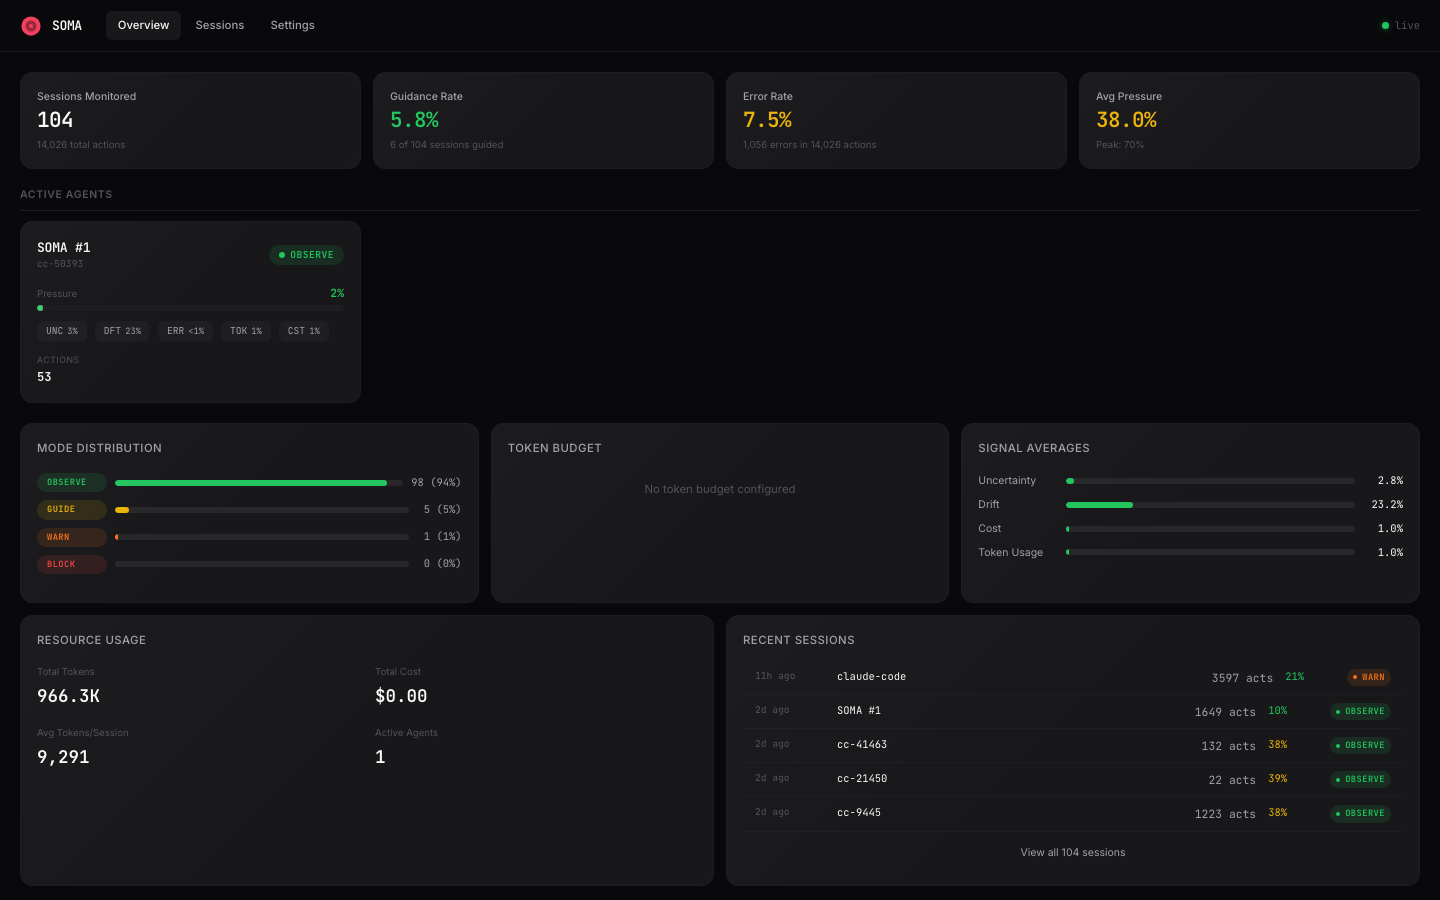
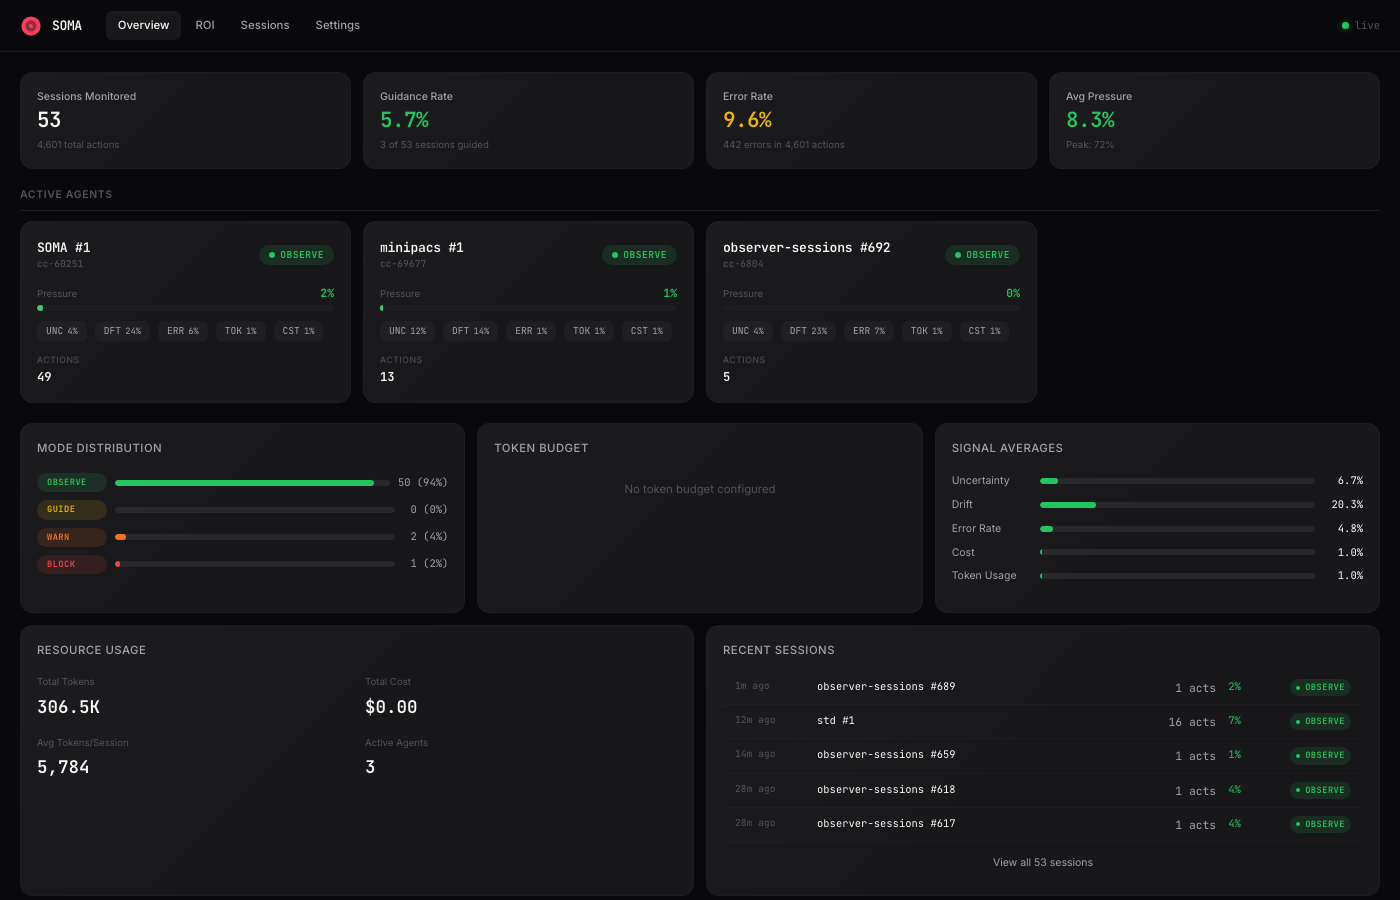
docs: comprehensive README rewrite + fresh dashboard screenshots
- Full pipeline explanation with vitals, pressure model, response modes
- "Why SOMA?" table with 6 concrete before/after scenarios
- All 9 patterns with detection AND prescription columns
- Healing transitions, panic detector, cross-session memory sections
- ROI dashboard section with live screenshot
- State files, configuration, architecture summary
- Fresh Playwright screenshots of all dashboard pages including new ROI

diff --git a/README.md b/README.md
@@ -1,11 +1,11 @@
 <p align="center">
-  <img src="docs/screenshots/overview.png" alt="SOMA Dashboard" width="700">
+  <img src="docs/screenshots/overview.png" alt="SOMA Dashboard — Overview" width="720">
 </p>
 
 <h1 align="center">SOMA</h1>
 
 <p align="center">
-  <strong>Behavioral monitoring and guidance for AI agents</strong>
+  <strong>Behavioral monitoring and real-time guidance for AI agents</strong>
 </p>
 
 <p align="center">
@@ -17,24 +17,28 @@
 
 <p align="center">
   SOMA observes agent actions in real-time, computes behavioral pressure<br>
-  from vital signals, and injects corrective guidance before problems escalate.<br>
-  <em>A nervous system for AI agents.</em>
+  from five vital signals, and injects corrective guidance before problems<br>
+  escalate. Think of it as a nervous system for AI agents.
 </p>
 
 ---
 
 ## Why SOMA?
 
-AI agents fail in predictable ways: they retry the same broken command, spiral into error cascades, burn tokens on dead-end approaches, and edit files they never read. Human operators catch these patterns — eventually. SOMA catches them in real-time and tells the agent what to do instead.
+AI agents fail in predictable ways. They retry the same broken command 10 times. They spiral into error cascades across tools. They burn thousands of tokens on dead-end approaches. They edit files they never read. Human operators catch these patterns — eventually, after the damage is done.
+
+SOMA catches them in real-time and tells the agent exactly what to do instead.
 
 **SOMA doesn't just monitor. It treats.**
 
-| Problem | What happens without SOMA | What SOMA does |
-|:--------|:--------------------------|:---------------|
-| Agent retries failing Bash 5x | Burns tokens, gets same error | Intercepts after 1st failure, suggests `Read` instead |
-| Error cascade across tools | 10+ wasted actions before human notices | Breaks the chain at action 3 with specific fix |
-| Monotool tunnel vision | Agent stuck in one tool forever | Detects low entropy, prescribes tool switch |
-| Cost spiraling with errors | $5 wasted before anyone checks | Detects spend + error correlation, warns immediately |
+| Problem | Without SOMA | With SOMA |
+|:--------|:-------------|:----------|
+| Agent retries failing Bash 5x | Burns tokens, gets same error every time | Intercepts after 1st failure, suggests `Read` the error output |
+| Error cascade across tools | 10+ wasted actions before human notices | Breaks the chain at action 3 with a specific fix |
+| Monotool tunnel vision | Agent stuck calling one tool forever | Detects low entropy, prescribes tool diversification |
+| Cost spiraling with errors | $5+ wasted before anyone checks | Detects spend + error correlation, warns immediately |
+| Editing without reading | Blind edits introduce bugs | Blocks and tells agent to read the file first |
+| Context window filling up | Agent runs out of context, loses track | Warns at 80%, suggests compaction strategy |
 
 ---
 
@@ -44,21 +48,23 @@ AI agents fail in predictable ways: they retry the same broken command, spiral i
 pip install soma-ai
 ```
 
-Python 3.11+ &mdash; no other dependencies required.
+Python 3.11+. No external service dependencies.
 
 ---
 
-## Quick Start
+## Two Integration Paths
 
-### Option A: Claude Code (zero-code)
+### Path 1: Claude Code Hooks (zero-code)
 
 ```bash
 soma install
 ```
 
-Done. SOMA hooks into every tool call automatically.
+Done. SOMA hooks into every tool call automatically. Guidance appears as part of tool responses — the agent sees it and adjusts behavior without human intervention.
 
-### Option B: Any LLM SDK
+**How it works:** PreToolUse hook writes to stderr (pre-action warnings). PostToolUse hook records the action, evaluates 9 guidance patterns, and writes corrections to stdout where Claude Code appends them to the tool response. Hooks never crash — all exceptions are caught and suppressed.
+
+### Path 2: SDK Wrapper (any LLM client)
 
 ```python
 import soma
@@ -67,7 +73,8 @@ import anthropic
 client = soma.wrap(anthropic.Anthropic())
 
 # Every API call is now monitored.
-# SOMA injects guidance directly into the message stream.
+# SOMA injects guidance directly into the message stream
+# as system messages when behavioral pressure rises.
 response = client.messages.create(
     model="claude-sonnet-4-20250514",
     max_tokens=1024,
@@ -75,95 +82,131 @@ response = client.messages.create(
 )
 ```
 
+Works with any client that follows the Anthropic SDK interface. `soma.wrap()` returns a transparent proxy — your code doesn't change. Raises `SomaBlocked` when pressure is critical, `SomaBudgetExhausted` when budget is spent.
+
 ---
 
-## How It Works
+## The Pipeline
 
 ```
 action  ──>  vitals  ──>  pressure  ──>  guidance  ──>  injection
-              │                            │               │
-        uncertainty              OBSERVE / GUIDE      stdout (hooks)
-        drift                    WARN / BLOCK         messages (SDK)
-        error_rate
-        token_usage
-        cost
+               │              │              │              │
+         5 signals      EMA baseline    9 patterns      stdout (hooks)
+         per action     + z-score       ranked by       messages (SDK)
+                        + sigmoid       priority
 ```
 
-Every action flows through the pipeline. Five vital signals are computed, aggregated into a 0&ndash;1 pressure scalar via EMA baselines + z-score sigmoid, then mapped to a response mode. When pressure is high enough, SOMA injects specific, actionable guidance into the agent's context.
+Every agent action flows through this pipeline:
+
+1. **Vitals** — five signals computed per action:
+   - **Uncertainty** — entropy of recent action distribution
+   - **Drift** — deviation from established behavioral baseline
+   - **Error rate** — ratio of failed actions
+   - **Token usage** — resource consumption rate
+   - **Cost** — monetary spend rate
+
+2. **Pressure** — each signal compared against its EMA baseline (with cold-start blending to avoid false positives in early sessions). Deviation converted to 0–1 via z-score through sigmoid. Aggregate = blended mean + max of individual pressures.
+
+3. **Response Mode** — pressure maps to escalating modes:
+
+   | Range | Mode | Behavior |
+   |:------|:-----|:---------|
+   | 0.00–0.25 | **OBSERVE** | Silent. Metrics only. |
+   | 0.25–0.50 | **GUIDE** | Suggest corrections. |
+   | 0.50–0.75 | **WARN** | Alert. Flag destructive operations. |
+   | 0.75–1.00 | **BLOCK** | Restrict destructive operations. |
+
+4. **Injection** — corrective guidance reaches the agent context. Hooks write to stdout (appended to tool response). SDK wrapper injects system messages.
 
 ---
 
 ## 9 Guidance Patterns
 
-Ranked by priority. Higher patterns override lower ones when multiple match.
+Ranked by priority. When multiple patterns match, the highest-priority one fires. Each pattern has an independent cooldown to prevent alert fatigue.
 
-| # | Pattern | Detects | Action |
-|:-:|:--------|:--------|:-------|
-| 1 | **cost_spiral** | Accelerating spend + high error rate | Warn about cost, suggest cheaper approach |
-| 2 | **budget** | Budget below 20% remaining | Budget status + conservation tips |
-| 3 | **bash_retry** | Bash followed by Bash after failure | "Read the error first" + healing transition |
-| 4 | **retry_storm** | 3+ same-tool consecutive failures | Break the loop, suggest alternative tool |
-| 5 | **error_cascade** | 3+ errors across different tools | Stop, diagnose root cause |
-| 6 | **blind_edit** | Edit/Write without prior Read | "Read before you edit" |
-| 7 | **entropy_drop** | Monotool usage (low Shannon entropy) | Diversify approach + panic escalation |
+| # | Pattern | What it detects | What it prescribes |
+|:-:|:--------|:----------------|:-------------------|
+| 1 | **cost_spiral** | Accelerating spend + high error rate | Cost warning + cheaper approach suggestion |
+| 2 | **budget** | Budget below 20% remaining | Budget status + conservation strategy |
+| 3 | **bash_retry** | Bash immediately after Bash failure | "Read the error output first" + healing transition |
+| 4 | **retry_storm** | 3+ consecutive same-tool failures | Break the loop + alternative tool suggestion |
+| 5 | **error_cascade** | 3+ consecutive errors across tools | Stop and diagnose root cause |
+| 6 | **blind_edit** | Edit/Write without prior Read of file | "Read before you edit" |
+| 7 | **entropy_drop** | Monotool usage (low Shannon entropy) | Diversify tools + panic escalation if velocity high |
 | 8 | **context** | Context window >80% full | Compaction warning |
-| 9 | **drift** | Behavioral deviation from baseline | Pattern drift alert |
+| 9 | **drift** | Behavioral drift from initial patterns | Pattern drift alert |
 
 ### Healing Transitions
 
-Data-backed prescriptions from 17K+ production actions:
+When a pattern fires, SOMA doesn't just say "stop doing that." It tells the agent specifically what to do next, backed by data from 17K+ production actions:
 
 ```
-Bash failed  ──>  Read next     (reduces pressure 7%)
-Edit failed  ──>  Read first    (reduces pressure 5%)
-Write stuck  ──>  Grep/Glob     (reduces pressure 5%)
+Bash failed   →  Read next      (reduces pressure by 7%)
+Edit failed   →  Read first     (reduces pressure by 5%)
+Write stuck   →  Grep/Glob      (reduces pressure by 5%)
 ```
 
-These aren't opinions &mdash; they're measured effect sizes from real agent sessions.
+These are measured effect sizes, not opinions.
+
+### Panic Detector
+
+The entropy_drop pattern includes a panic escalation mechanism. When SOMA detects both low tool entropy (monotool usage) AND high action velocity (rapid-fire actions), it escalates to critical severity. This catches agents that are stuck in a loop and moving too fast to self-correct.
 
 ### Cross-Session Memory
 
-Errors are stored with trigram similarity matching. If the agent hit a similar error last session (even with different file paths), SOMA surfaces the fix that worked before.
+Errors are stored in a `LessonStore` with trigram similarity matching. If the agent hit a similar error in a past session — even with different file paths or slightly different error messages — SOMA surfaces the fix that worked before.
 
 ---
 
 ## ROI Dashboard
 
+<p align="center">
+  <img src="docs/screenshots/roi.png" alt="SOMA ROI Dashboard" width="720">
+</p>
+
 ```bash
 soma dashboard
 ```
 
-Opens a browser dashboard answering one question: **"Is SOMA worth it?"**
+The ROI page answers one question: **"Is SOMA worth it?"**
 
-<p align="center">
-  <img src="docs/screenshots/overview.png" alt="SOMA Dashboard" width="600">
-</p>
+- **Health Score** — 0-100 composite from live vitals (error rate, uncertainty, drift)
+- **Tokens Saved** — estimated from error cascades broken early (each intervention prevents ~3 wasted actions)
+- **Cascades Broken** — count of retry_storm, error_cascade, and bash_retry chains stopped
+- **Guidance Precision** — percentage of interventions the agent actually followed
+- **Pattern Performance** — horizontal bar chart showing which patterns fire most and their follow-through rates
 
-- **Health Score** &mdash; 0-100 from live vitals
-- **Tokens Saved** &mdash; estimated from broken error cascades
-- **Cascades Broken** &mdash; error chains stopped early
-- **Guidance Precision** &mdash; % of interventions the agent followed
-- **Pattern Performance** &mdash; which patterns fire, which get followed
+The dashboard also includes an [Overview page](docs/screenshots/overview.png) with live agent cards, pressure gauges, mode distribution, signal averages, resource usage, and recent sessions.
+
+Data comes from `analytics.db` (source-tagged SQLite with every action recorded), circuit files (per-agent followthrough and cooldown state), and `engine_state.json` (current vitals). Auto-refreshes every 5 seconds.
 
 ---
 
 ## CLI
 
 ```bash
-soma status          # Current pressure, vitals, budget
+soma status          # Current pressure, vitals, and budget
 soma install         # Set up Claude Code hooks
 soma config show     # View active configuration
-soma doctor          # Diagnose issues
+soma doctor          # Diagnose configuration and hook health
 soma analytics       # Query session analytics
 soma replay          # Replay a recorded session
 soma dashboard       # Launch web dashboard
 ```
 
+Three entry points:
+
+| Command | Purpose |
+|:--------|:--------|
+| `soma` | Main CLI — status, config, install, replay, analytics |
+| `soma-hook` | Hook dispatcher for Claude Code (called via CLAUDE_HOOK env var) |
+| `soma-statusline` | Status line formatter for terminal status bars |
+
 ---
 
 ## Configuration
 
-`soma.toml` in your project root. Defaults work out of the box.
+`soma.toml` in your project root. Defaults work out of the box — you don't need this file to get started.
 
 ```toml
 [budget]
@@ -171,10 +214,21 @@ tokens = 100000
 cost_usd = 5.0
 
 [thresholds]
-guide = 0.4
-warn = 0.7
-block = 0.9
+guide = 0.4    # pressure above this → suggest corrections
+warn = 0.7     # pressure above this → alert, flag destructive ops
+block = 0.9    # pressure above this → restrict destructive operations
 ```
+
+### State Files
+
+SOMA stores state in `~/.soma/`:
+
+| File | Purpose |
+|:-----|:--------|
+| `engine_state.json` | Engine state (atomic write with file locking) |
+| `state.json` | Session state |
+| `analytics.db` | SQLite action log (source-tagged, versioned) |
+| `circuit_{agent_id}.json` | Per-agent cooldowns, followthrough, signal pressures |
 
 ---
 
@@ -183,14 +237,16 @@ block = 0.9
 See [docs/ARCHITECTURE.md](docs/ARCHITECTURE.md) for the full technical breakdown.
 
 **Key design decisions:**
-- Core is platform-agnostic &mdash; no Claude Code imports in `soma.*`
-- Hooks never crash &mdash; all exceptions caught and suppressed
-- State persistence uses atomic writes (tmp &rarr; fsync &rarr; rename) with file locking
-- Guidance cooldowns prevent alert fatigue &mdash; each pattern has an independent cooldown
-- Analytics are source-tagged (hook/wrap/unknown) for honest measurement
+
+- **Platform-agnostic core** — no Claude Code imports in `soma.*`. Hooks are a separate integration layer.
+- **Hooks never crash** — all exceptions caught and suppressed. SOMA must never disrupt the agent it monitors.
+- **Atomic persistence** — state writes use tmp → fsync → rename with file locking. No partial writes.
+- **Independent cooldowns** — each guidance pattern has its own cooldown counter. No alert fatigue.
+- **Source-tagged analytics** — every recorded action is tagged with its source (hook/wrap/unknown) for honest measurement.
+- **Followthrough tracking** — SOMA measures whether the agent actually followed its guidance, enabling data-driven pattern improvement.
 
 ---
 
 ## License
 
-[MIT](LICENSE) &mdash; free forever.
+[MIT](LICENSE) — free forever, no monetization, no telemetry.
